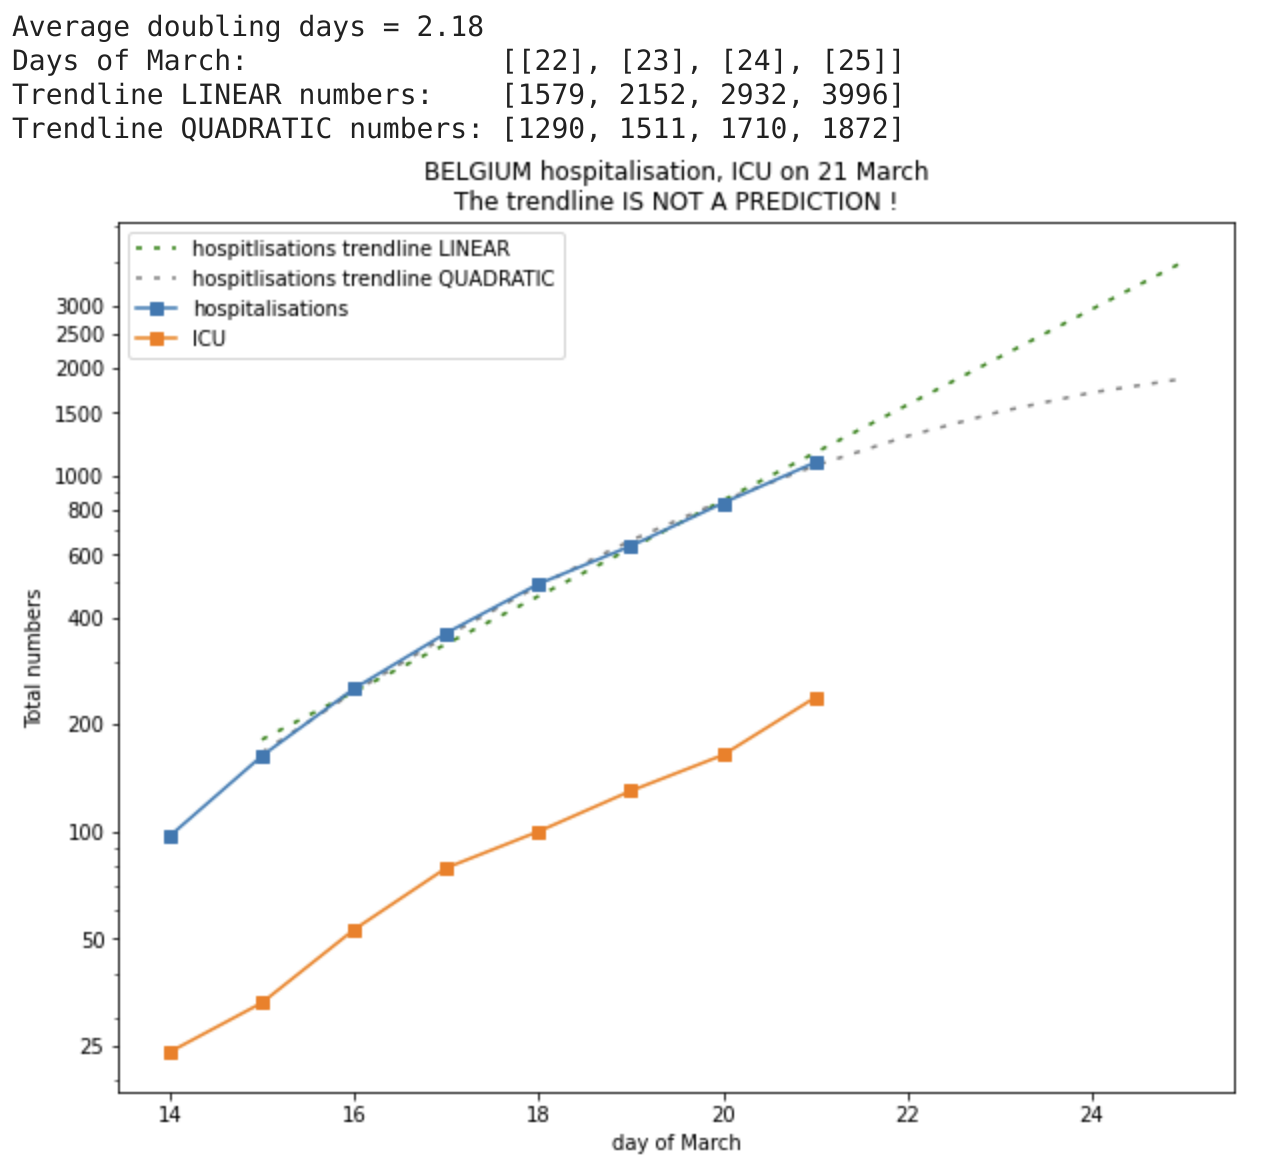
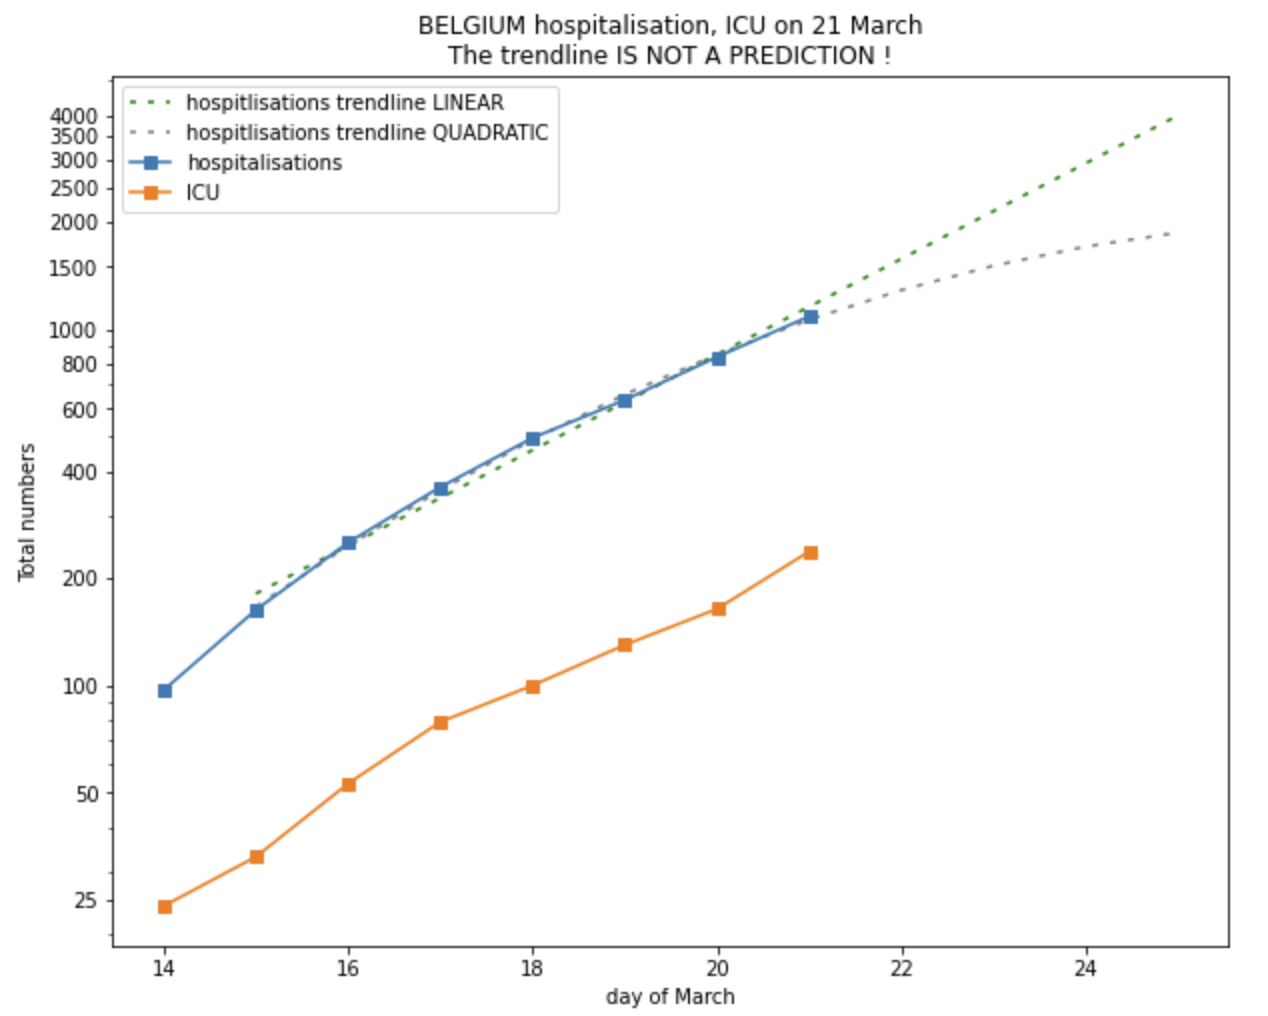
Add vertical markers up to 4000

diff --git a/code/Belgium/Belgium-2020-03-21-LQ.py b/code/Belgium/Belgium-2020-03-21-LQ.py
@@ -74,7 +74,7 @@ print(f"Trendline QUADRATIC numbers: {[int(pow(2, x)) for x in log2_hosp_trend_2
 figure(num=1, figsize=(10, 8))
 plt.yscale("log")
 
-values = [10, 25, 50, 100, 200, 400, 600, 800, 1000, 1500, 2000]
+values = [10, 25, 50, 100, 200, 400, 600, 800, 1000, 1500, 2000, 2500, 3000, 3500, 4000]
 plt.yticks(values, ['%d' % val for val in values])
 
 plt.plot(X_, trend_1, color = 'green', dashes=[2, 4], label="hospitlisations trendline LINEAR")
@@ -85,6 +85,6 @@ plt.plot(day_of_march_ICU, ICU, 's-', label="ICU")
 
 plt.xlabel("day of March")
 plt.ylabel("Total numbers")
-plt.title(f"{country} hospitalisation, ICU; \n 21 March The trendline IS NOT A PREDICTION ! ")
+plt.title(f"{country} hospitalisation, ICU on 21 March\nThe trendline IS NOT A PREDICTION !")
 plt.legend()
 plt.show()
